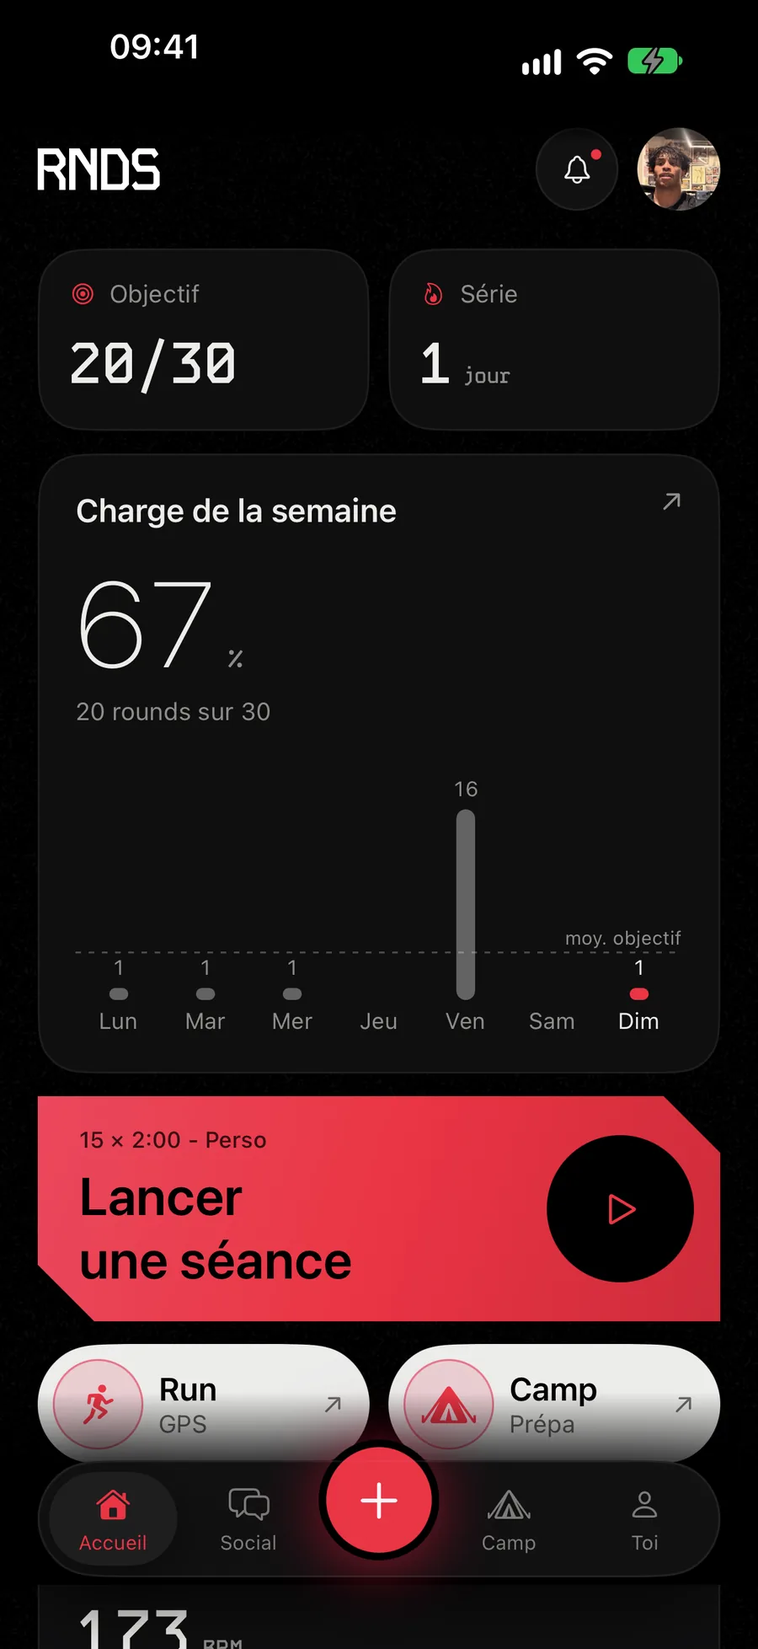
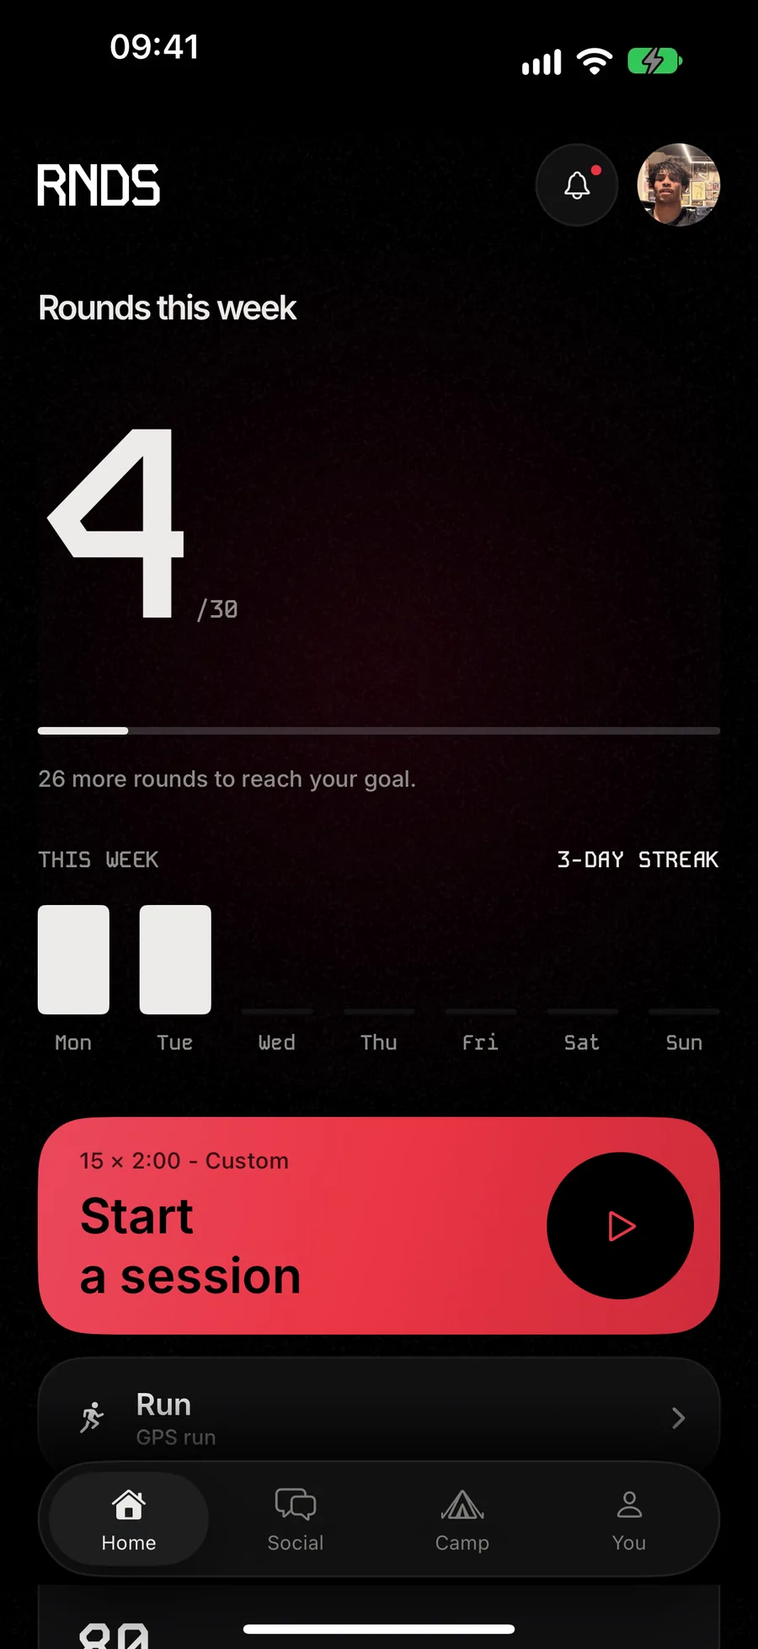
Site : nouvelles captures de l'app (27 octobre 2026) et Fight Night

diff --git a/index.html b/index.html
@@ -109,8 +109,8 @@
         <p class="label dispo" data-in style="--d:.3s">Gratuit sur l’App Store</p>
       </div>
       <div class="iphone" data-in style="--d:.2s">
-        <div class="iphone__corps"><img src="img/app/accueil.webp" width="900" height="1957" fetchpriority="high" alt="Écran Accueil de RNDS : objectif de 20 rounds sur 30, série d’un jour, charge de la semaine à 67 %, bouton Lancer une séance (15 × 2:00), accès au Run GPS et au Camp, avec la barre Accueil, Social, +, Camp et Toi."><span class="iphone__bouton"></span></div>
-        <p class="legende">Capture réelle du 25 octobre 2026<sup class="appel"><a href="#note-4" aria-label="Note 4">4</a></sup></p>
+        <div class="iphone__corps"><img src="img/app/accueil.webp" width="900" height="1957" fetchpriority="high" alt="Écran Accueil de RNDS (en anglais) : 4 rounds sur 30 cette semaine, série de 3 jours, bouton Lancer une séance (15 × 2:00) et accès au Run GPS, avec la barre Accueil, Social, Camp et Toi."><span class="iphone__bouton"></span></div>
+        <p class="legende">Capture réelle du 27 octobre 2026<sup class="appel"><a href="#note-4" aria-label="Note 4">4</a></sup></p>
       </div>
     </div>
   </section>
@@ -119,7 +119,7 @@
   <section class="sec sec--carbone" id="timer">
     <div class="wrap timer">
       <div class="iphone" data-in>
-        <div class="iphone__corps"><img src="img/app/timer.webp" width="900" height="1957" loading="lazy" decoding="async" alt="Le timer en cours : sac en garde, round 1 sur 15, 40:33 restantes au total, cardio à 85 BPM en zone 1, rounds de 2:00 et repos de 0:45, ta musique continue."><span class="iphone__bouton"></span></div>
+        <div class="iphone__corps"><img src="img/app/timer.webp" width="900" height="1957" loading="lazy" decoding="async" alt="Le timer en cours (en anglais) : corde à sauter, round 1 sur 15, cardio à 81 BPM en zone 1, ta musique continue."><span class="iphone__bouton"></span></div>
       </div>
       <div class="timer__droite">
         <div class="sec__tete" style="margin-bottom:0" data-in>
@@ -230,20 +230,20 @@
       <p class="note" data-in>À chaque kilomètre, un bip, puis la voix annonce la distance et le temps.</p>
       <div class="galerie galerie--apres">
         <figure data-in>
-          <div class="iphone"><div class="iphone__corps"><img src="img/app/seances.webp" width="900" height="1957" loading="lazy" decoding="async" alt="Écran Mes séances : séances prêtes à lancer, rangées par sport (boxe, grappling, run, renfo), et tes modèles."><span class="iphone__bouton"></span></div></div>
-          <figcaption><b>Mes séances</b><span>Tes séances prêtes à lancer, rangées par sport&nbsp;: boxe, grappling, run et renfo.</span></figcaption>
+          <div class="iphone"><div class="iphone__corps"><img src="img/app/run.webp" width="900" height="1957" loading="lazy" decoding="async" alt="Écran Run (en anglais) : GPS prêt, mode Endurance en zone 2 pour 40 minutes, annonce à chaque kilomètre, playlist au départ et guidage vocal."><span class="iphone__bouton"></span></div></div>
+          <figcaption><b>Run</b><span>Choisis ton mode (libre, fractionné, zones ou seuil), l’annonce à chaque kilomètre et ta playlist au départ.</span></figcaption>
         </figure>
         <figure data-in style="--d:.06s">
-          <div class="iphone"><div class="iphone__corps"><img src="img/app/run-cardio.webp" width="900" height="1957" loading="lazy" decoding="async" alt="Détail d’un run : cardio moyen de 163 BPM et max de 179, courbe sur 45 minutes, temps passé dans chaque zone (85 % en zone 4) et allure par kilomètre."><span class="iphone__bouton"></span></div></div>
-          <figcaption><b>Cardio et zones</b><span>Ta courbe cardio, le temps passé dans chaque zone et ton allure kilomètre par kilomètre.<sup class="appel"><a href="#note-1" aria-label="Note 1">1</a></sup></span></figcaption>
+          <div class="iphone"><div class="iphone__corps"><img src="img/app/run-type.webp" width="900" height="1957" loading="lazy" decoding="async" alt="Réglage d’une séance (en anglais) : 8 × 400 m avec 1:30 de récup en zone 4, et un fractionné perso de 8 × 1:00."><span class="iphone__bouton"></span></div></div>
+          <figcaption><b>Piste et fractionnés</b><span>Règle tes répétitions, ta distance, ta récup et ta zone, ou crée ton propre fractionné.</span></figcaption>
         </figure>
         <figure data-in style="--d:.12s">
-          <div class="iphone"><div class="iphone__corps"><img src="img/app/run-affiche.webp" width="900" height="1957" loading="lazy" decoding="async" alt="Story au format 9:16, modèle Affiche tracé : le tracé du run avec le départ, la ville, 8,75 km et la date."><span class="iphone__bouton"></span></div></div>
-          <figcaption><b>Affiche tracé</b><span>Ton tracé en story 9:16, avec la ville, la distance et la date.</span></figcaption>
+          <div class="iphone"><div class="iphone__corps"><img src="img/app/run-cardio.webp" width="900" height="1957" loading="lazy" decoding="async" alt="Détail d’un run (en anglais) : 49:51 à 5:41 au km, 793 kcal, ressenti 8 sur 10, cardio moyen de 163 BPM et max de 179, et une dérive cardiaque de 2 %."><span class="iphone__bouton"></span></div></div>
+          <figcaption><b>Cardio et zones</b><span>Ta courbe cardio, ta dérive cardiaque et le temps passé dans chaque zone.<sup class="appel"><a href="#note-1" aria-label="Note 1">1</a></sup></span></figcaption>
         </figure>
         <figure data-in style="--d:.18s">
-          <div class="iphone"><div class="iphone__corps"><img src="img/app/run-carte.webp" width="900" height="1957" loading="lazy" decoding="async" alt="Story au format 9:16, modèle Carte et profil : temps de 49:51, allure de 5:41 au km, une phrase et la courbe d’allure avec le kilomètre le plus rapide."><span class="iphone__bouton"></span></div></div>
-          <figcaption><b>Carte et profil</b><span>Ton temps, ton allure et la courbe de ta sortie, prêts à partager.</span></figcaption>
+          <div class="iphone"><div class="iphone__corps"><img src="img/app/story.webp" width="900" height="1957" loading="lazy" decoding="async" alt="Story au format 9:16, modèle Minimal (en anglais) : 8,75 km, 5:41 au km, 49:51 et 793 kcal sur fond transparent, avec les autres modèles en dessous."><span class="iphone__bouton"></span></div></div>
+          <figcaption><b>Story</b><span>Ta sortie en story 9:16, sur fond transparent ou sur ta photo, prête à partager.</span></figcaption>
         </figure>
       </div>
     </div>
@@ -261,8 +261,8 @@
       </div>
       <div class="galerie">
         <figure data-in>
-          <div class="iphone"><div class="iphone__corps"><img src="img/app/camp.webp" width="900" height="1957" loading="lazy" decoding="async" alt="Écran Camp : programmes (shadow, sac, cardio, prépa combat), coach, sommeil, nutrition et eau, poids."><span class="iphone__bouton"></span></div></div>
-          <figcaption><b>L’écran Camp</b><span>Tes programmes, ton coach, ta dernière nuit, tes repas et ton poids.</span></figcaption>
+          <div class="iphone"><div class="iphone__corps"><img src="img/app/camp.webp" width="900" height="1957" loading="lazy" decoding="async" alt="Écran Camp (en anglais) : date de la pesée, tes séances (shadow, sac, cardio, prépa combat), dernière nuit, poids, eau et nutrition."><span class="iphone__bouton"></span></div></div>
+          <figcaption><b>L’écran Camp</b><span>Tes séances, ta pesée, ta dernière nuit, ton poids, tes repas et ton eau.</span></figcaption>
         </figure>
         <figure data-in style="--d:.06s">
           <div class="iphone"><div class="iphone__corps"><img src="img/app/sommeil.webp" width="1000" height="2174" loading="lazy" decoding="async" alt="Écran Sommeil : 9 h 46 la dernière nuit, bien récupéré, feu vert pour une séance intense."><span class="iphone__bouton"></span></div></div>
@@ -296,12 +296,33 @@
           <figcaption><b>Journal</b><span>Tes rounds de la semaine face à ton objectif, et le total du mois.</span></figcaption>
         </figure>
         <figure data-in style="--d:.06s">
-          <div class="iphone"><div class="iphone__corps"><img src="img/app/social.webp" width="900" height="1957" loading="lazy" decoding="async" alt="Écran Social : onglets Fil, Combats, Classement et Défis, duel en cours à 20 contre 0, et un run du soir partagé dans le fil avec sa distance, son allure, son temps et son tracé sur la carte."><span class="iphone__bouton"></span></div></div>
+          <div class="iphone"><div class="iphone__corps"><img src="img/app/social.webp" width="900" height="1957" loading="lazy" decoding="async" alt="Écran Social (en anglais) : onglets Fil, Combats, Classement et Défis, duel en cours à 3 contre 0, et une séance partagée dans le fil avec sa durée, ses calories et ses likes."><span class="iphone__bouton"></span></div></div>
           <figcaption><b>Défis</b><span>Des défis comme 5 jours sur 7 ou 100 rounds en 7 jours, seul ou en duel avec tes partenaires de salle.</span></figcaption>
         </figure>
         <figure data-in style="--d:.12s">
           <div class="iphone"><div class="iphone__corps"><img src="img/app/badges.webp" width="1000" height="2174" loading="lazy" decoding="async" alt="Écran Badges : 5 badges sur 32, premier round en bronze, paliers de rounds et de séries."><span class="iphone__bouton"></span></div></div>
           <figcaption><b>Badges</b><span>32 badges à gagner à l’entraînement, du premier round au millième.</span></figcaption>
+        </figure>
+      </div>
+      <div class="sec__tete sec__tete--2 galerie--apres" data-in>
+        <div style="display:grid;gap:22px">
+          <p class="label">Entre amis</p>
+          <h3 class="titre t-l">Fight Night</h3>
+        </div>
+        <p class="lede">Pronostique les grands combats avec tes potes. <b>On joue avec des points de l’app&nbsp;: ils ne s’achètent pas et ne rapportent rien.</b></p>
+      </div>
+      <div class="galerie galerie--3">
+        <figure data-in>
+          <div class="iphone"><div class="iphone__corps"><img src="img/app/fight-night.webp" width="900" height="1957" loading="lazy" decoding="async" alt="Onglet Combats (en anglais) : Fight Night avec 800 points, Alvarez contre Mbilli le 31 octobre à Riyad avec un prono de 200 points, et les autres combats du week-end."><span class="iphone__bouton"></span></div></div>
+          <figcaption><b>Les combats</b><span>Les combats du week-end à l’heure française. Tu mises tes points jusqu’à la pesée.</span></figcaption>
+        </figure>
+        <figure data-in style="--d:.06s">
+          <div class="iphone"><div class="iphone__corps"><img src="img/app/fight-prono.webp" width="900" height="1957" loading="lazy" decoding="async" alt="Détail du combat Alvarez contre Mbilli (en anglais) : prono Mbilli par KO entre les rounds 4 et 6, 200 points misés à ×8, et les 5 derniers combats de chacun."><span class="iphone__bouton"></span></div></div>
+          <figcaption><b>Ton prono</b><span>Le vainqueur, la méthode et les rounds&nbsp;: plus ton prono est précis, plus il rapporte de points.</span></figcaption>
+        </figure>
+        <figure data-in style="--d:.12s">
+          <div class="iphone"><div class="iphone__corps"><img src="img/app/fight-classement.webp" width="900" height="1957" loading="lazy" decoding="async" alt="Classement des pronostiqueurs (en anglais) : onglets Amis, Ma salle et France, badge Oracle du mois et quatre joueurs à égalité."><span class="iphone__bouton"></span></div></div>
+          <figcaption><b>Classement</b><span>Entre potes, dans ta salle ou en France. Le classement repart à zéro chaque mois.</span></figcaption>
         </figure>
       </div>
     </div>
@@ -421,7 +442,7 @@
         <li id="note-1">Apple Watch sous watchOS 26 nécessaire pour le cardio au poignet. Sans montre, une ceinture cardio Bluetooth compatible fait l’affaire.</li>
         <li id="note-2">L’estimation se fait sur l’iPhone&nbsp;: par le modèle d’Apple quand l’appareil le permet, sinon par reconnaissance d’image et une base d’aliments. Elle reste indicative.</li>
         <li id="note-3">Les conseils de sommeil et d’entraînement ne sont pas un avis médical.</li>
-        <li id="note-4">Captures réelles de l’app, prises sur iPhone les 6, 11 et 25 octobre 2026. Celles du 11 octobre (Camp, journal) montrent des données de démonstration. Seules l’heure et la musique en cours ont été masquées.</li>
+        <li id="note-4">Captures réelles de l’app, prises sur iPhone les 6, 11 et 27 octobre 2026. Celles du 27 octobre montrent l’app en anglais, celle du 11 octobre (journal) des données de démonstration. Seules l’heure et la musique en cours ont été masquées.</li>
         <li id="note-5">Vidéo de la bannière&nbsp;: NXTLVL Media.</li>
       </ol>
       <p class="pied__marques">Apple, le logo Apple, Apple Watch, iPhone et Santé sont des marques d’Apple Inc., déposées aux États-Unis et dans d’autres pays. App Store est une marque de service d’Apple Inc.</p>

diff --git a/en/index.html b/en/index.html
@@ -109,8 +109,8 @@
         <p class="label dispo" data-in style="--d:.3s">Free on the App Store</p>
       </div>
       <div class="iphone" data-in style="--d:.2s">
-        <div class="iphone__corps"><img src="/img/app/accueil.webp" width="900" height="1957" fetchpriority="high" alt="RNDS Home screen, in French: goal of 20 rounds out of 30, a one-day streak, this week’s load at 67%, the Start a Session button (15 × 2:00), GPS Run and Camp, with the Home, Social, +, Camp and You tab bar."><span class="iphone__bouton"></span></div>
-        <p class="legende">Real screenshot, October 25, 2026<sup class="appel"><a href="#note-4" aria-label="Note 4">4</a></sup></p>
+        <div class="iphone__corps"><img src="/img/app/accueil.webp" width="900" height="1957" fetchpriority="high" alt="RNDS Home screen: 4 of 30 rounds this week, a 3-day streak, the Start a Session button (15 × 2:00) and GPS Run, with the Home, Social, Camp and You tab bar."><span class="iphone__bouton"></span></div>
+        <p class="legende">Real screenshot, October 27, 2026<sup class="appel"><a href="#note-4" aria-label="Note 4">4</a></sup></p>
       </div>
     </div>
   </section>
@@ -119,7 +119,7 @@
   <section class="sec sec--carbone" id="timer">
     <div class="wrap timer">
       <div class="iphone" data-in>
-        <div class="iphone__corps"><img src="/img/app/timer.webp" width="900" height="1957" loading="lazy" decoding="async" alt="The timer running, in French: bag work in guard, round 1 of 15, 40:33 left in total, heart rate at 85 BPM in zone 1, 2:00 rounds and 0:45 rest, your music keeps playing."><span class="iphone__bouton"></span></div>
+        <div class="iphone__corps"><img src="/img/app/timer.webp" width="900" height="1957" loading="lazy" decoding="async" alt="The timer running: jump rope, round 1 of 15, heart rate at 81 BPM in zone 1, your music keeps playing."><span class="iphone__bouton"></span></div>
       </div>
       <div class="timer__droite">
         <div class="sec__tete" style="margin-bottom:0" data-in>
@@ -230,20 +230,20 @@
       <p class="note" data-in>At every kilometer, a beep, then a voice reads out your distance and time.</p>
       <div class="galerie galerie--apres">
         <figure data-in>
-          <div class="iphone"><div class="iphone__corps"><img src="/img/app/seances.webp" width="900" height="1957" loading="lazy" decoding="async" alt="My Sessions screen, in French: sessions ready to start, sorted by sport (boxing, grappling, run, strength), and your templates."><span class="iphone__bouton"></span></div></div>
-          <figcaption><b>My sessions</b><span>Your sessions ready to start, sorted by sport: boxing, grappling, running and strength.</span></figcaption>
+          <div class="iphone"><div class="iphone__corps"><img src="/img/app/run.webp" width="900" height="1957" loading="lazy" decoding="async" alt="Run screen: GPS ready, Endurance mode in zone 2 for 40 minutes, an announcement every kilometer, a playlist at GO and audio guidance."><span class="iphone__bouton"></span></div></div>
+          <figcaption><b>Run</b><span>Pick your mode (free, intervals, zones or threshold), the announcement every kilometer and your playlist at GO.</span></figcaption>
         </figure>
         <figure data-in style="--d:.06s">
-          <div class="iphone"><div class="iphone__corps"><img src="/img/app/run-cardio.webp" width="900" height="1957" loading="lazy" decoding="async" alt="Run details, in French: average heart rate of 163 BPM and max of 179, a 45-minute curve, time spent in each zone (85% in zone 4) and pace per kilometer."><span class="iphone__bouton"></span></div></div>
-          <figcaption><b>Heart rate and zones</b><span>Your heart rate curve, time in each zone and your pace kilometer by kilometer.<sup class="appel"><a href="#note-1" aria-label="Note 1">1</a></sup></span></figcaption>
+          <div class="iphone"><div class="iphone__corps"><img src="/img/app/run-type.webp" width="900" height="1957" loading="lazy" decoding="async" alt="Session settings: 8 × 400 m with 1:30 recovery in zone 4, and custom intervals of 8 × 1:00."><span class="iphone__bouton"></span></div></div>
+          <figcaption><b>Track and intervals</b><span>Set your reps, distance, recovery and zone, or build your own intervals.</span></figcaption>
         </figure>
         <figure data-in style="--d:.12s">
-          <div class="iphone"><div class="iphone__corps"><img src="/img/app/run-affiche.webp" width="900" height="1957" loading="lazy" decoding="async" alt="A 9:16 story, Route Poster template, in French: the run’s route with the start, the city, 8.75 km and the date."><span class="iphone__bouton"></span></div></div>
-          <figcaption><b>Route poster</b><span>Your route as a 9:16 story, with the city, distance and date.</span></figcaption>
+          <div class="iphone"><div class="iphone__corps"><img src="/img/app/run-cardio.webp" width="900" height="1957" loading="lazy" decoding="async" alt="Run details: 49:51 at 5:41 per km, 793 kcal, feel 8 out of 10, average heart rate of 163 BPM and max of 179, and a cardiac drift of 2%."><span class="iphone__bouton"></span></div></div>
+          <figcaption><b>Heart rate and zones</b><span>Your heart rate curve, your cardiac drift and the time spent in each zone.<sup class="appel"><a href="#note-1" aria-label="Note 1">1</a></sup></span></figcaption>
         </figure>
         <figure data-in style="--d:.18s">
-          <div class="iphone"><div class="iphone__corps"><img src="/img/app/run-carte.webp" width="900" height="1957" loading="lazy" decoding="async" alt="A 9:16 story, Map and Profile template, in French: a time of 49:51, a pace of 5:41 per km, a quote and the pace curve with the fastest kilometer."><span class="iphone__bouton"></span></div></div>
-          <figcaption><b>Map and profile</b><span>Your time, pace and run curve, ready to share.</span></figcaption>
+          <div class="iphone"><div class="iphone__corps"><img src="/img/app/story.webp" width="900" height="1957" loading="lazy" decoding="async" alt="A 9:16 story, Minimal template: 8.75 km, 5:41 per km, 49:51 and 793 kcal on a transparent background, with the other templates below."><span class="iphone__bouton"></span></div></div>
+          <figcaption><b>Story</b><span>Your run as a 9:16 story, on a transparent background or on your photo, ready to share.</span></figcaption>
         </figure>
       </div>
     </div>
@@ -261,8 +261,8 @@
       </div>
       <div class="galerie">
         <figure data-in>
-          <div class="iphone"><div class="iphone__corps"><img src="/img/app/camp.webp" width="900" height="1957" loading="lazy" decoding="async" alt="Camp screen, in French: programs (shadow, bag, cardio, fight prep), coach, sleep, nutrition and water, weight."><span class="iphone__bouton"></span></div></div>
-          <figcaption><b>The Camp screen</b><span>Your programs, your coach, last night’s sleep, your meals and your weight.</span></figcaption>
+          <div class="iphone"><div class="iphone__corps"><img src="/img/app/camp.webp" width="900" height="1957" loading="lazy" decoding="async" alt="Camp screen: next weigh-in date, your sessions (shadow, bag, cardio, fight camp), last night’s sleep, weight, water and nutrition."><span class="iphone__bouton"></span></div></div>
+          <figcaption><b>The Camp screen</b><span>Your sessions, your weigh-in, last night’s sleep, your weight, your meals and your water.</span></figcaption>
         </figure>
         <figure data-in style="--d:.06s">
           <div class="iphone"><div class="iphone__corps"><img src="/img/app/sommeil.webp" width="1000" height="2174" loading="lazy" decoding="async" alt="Sleep screen, in French: 9 h 46 last night, well recovered, green light for an intense session."><span class="iphone__bouton"></span></div></div>
@@ -296,12 +296,33 @@
           <figcaption><b>Journal</b><span>Your rounds this week against your goal, and your totals for the month.</span></figcaption>
         </figure>
         <figure data-in style="--d:.06s">
-          <div class="iphone"><div class="iphone__corps"><img src="/img/app/social.webp" width="900" height="1957" loading="lazy" decoding="async" alt="Social screen, in French: Feed, Fights, Leaderboard and Challenges tabs, a duel in progress at 20 to 0, and an evening run shared in the feed with its distance, pace, time and route on the map."><span class="iphone__bouton"></span></div></div>
+          <div class="iphone"><div class="iphone__corps"><img src="/img/app/social.webp" width="900" height="1957" loading="lazy" decoding="async" alt="Social screen: Feed, Fights, Ranking and Challenges tabs, a duel in progress at 3 to 0, and a session shared in the feed with its duration, calories and likes."><span class="iphone__bouton"></span></div></div>
           <figcaption><b>Challenges</b><span>Challenges like 5 days out of 7 or 100 rounds in 7 days, solo or head-to-head with your gym partners.</span></figcaption>
         </figure>
         <figure data-in style="--d:.12s">
           <div class="iphone"><div class="iphone__corps"><img src="/img/app/badges.webp" width="1000" height="2174" loading="lazy" decoding="async" alt="Badges screen, in French: 5 badges out of 32, first round in bronze, round and streak milestones."><span class="iphone__bouton"></span></div></div>
           <figcaption><b>Badges</b><span>32 badges to earn by training, from your first round to your thousandth.</span></figcaption>
+        </figure>
+      </div>
+      <div class="sec__tete sec__tete--2 galerie--apres" data-in>
+        <div style="display:grid;gap:22px">
+          <p class="label">With friends</p>
+          <h3 class="titre t-l">Fight Night</h3>
+        </div>
+        <p class="lede">Predict the big fights with your friends. <b>You play with in-app points: they can’t be bought and can’t be cashed out.</b></p>
+      </div>
+      <div class="galerie galerie--3">
+        <figure data-in>
+          <div class="iphone"><div class="iphone__corps"><img src="/img/app/fight-night.webp" width="900" height="1957" loading="lazy" decoding="async" alt="Fights tab: Fight Night with 800 points, Alvarez vs Mbilli on October 31 in Riyadh with a 200-point pick, and the other fights this weekend."><span class="iphone__bouton"></span></div></div>
+          <figcaption><b>The fights</b><span>This weekend’s fights in French time. You stake your points until the weigh-in.</span></figcaption>
+        </figure>
+        <figure data-in style="--d:.06s">
+          <div class="iphone"><div class="iphone__corps"><img src="/img/app/fight-prono.webp" width="900" height="1957" loading="lazy" decoding="async" alt="Alvarez vs Mbilli fight details: a pick on Mbilli by KO in rounds 4 to 6, 200 points staked at ×8, and each fighter’s last 5 fights."><span class="iphone__bouton"></span></div></div>
+          <figcaption><b>Your pick</b><span>The winner, the method and the rounds: the more precise your pick, the more points it’s worth.</span></figcaption>
+        </figure>
+        <figure data-in style="--d:.12s">
+          <div class="iphone"><div class="iphone__corps"><img src="/img/app/fight-classement.webp" width="900" height="1957" loading="lazy" decoding="async" alt="Predictors leaderboard: Friends, My gym and France tabs, the Oracle badge of the month and four players tied."><span class="iphone__bouton"></span></div></div>
+          <figcaption><b>Leaderboard</b><span>Among friends, in your gym or across France. The leaderboard resets every month.</span></figcaption>
         </figure>
       </div>
     </div>
@@ -421,7 +442,7 @@
         <li id="note-1">Requires an Apple Watch with watchOS 26 for heart rate on the wrist. Without a watch, a compatible Bluetooth heart rate strap does the job.</li>
         <li id="note-2">The estimate is made on the iPhone: by Apple’s on-device model when the device supports it, otherwise by image recognition and a food database. It’s only an estimate.</li>
         <li id="note-3">Sleep and training tips are not medical advice.</li>
-        <li id="note-4">Real screenshots of the app, taken on iPhone on October 6, 11 and 25, 2026, with the app set to French. The October 11 ones (Camp, journal) show demo data. Only the time and the music playing have been hidden.</li>
+        <li id="note-4">Real screenshots of the app, taken on iPhone on October 6, 11 and 27, 2026. The October 6 and 11 ones show the app in French, and the October 11 one (journal) shows demo data. Only the time and the music playing have been hidden.</li>
         <li id="note-5">Hero video: NXTLVL Media.</li>
       </ol>
       <p class="pied__marques">Apple, the Apple logo, Apple Watch, iPhone and Health are trademarks of Apple Inc., registered in the U.S. and other countries. App Store is a service mark of Apple Inc.</p>
